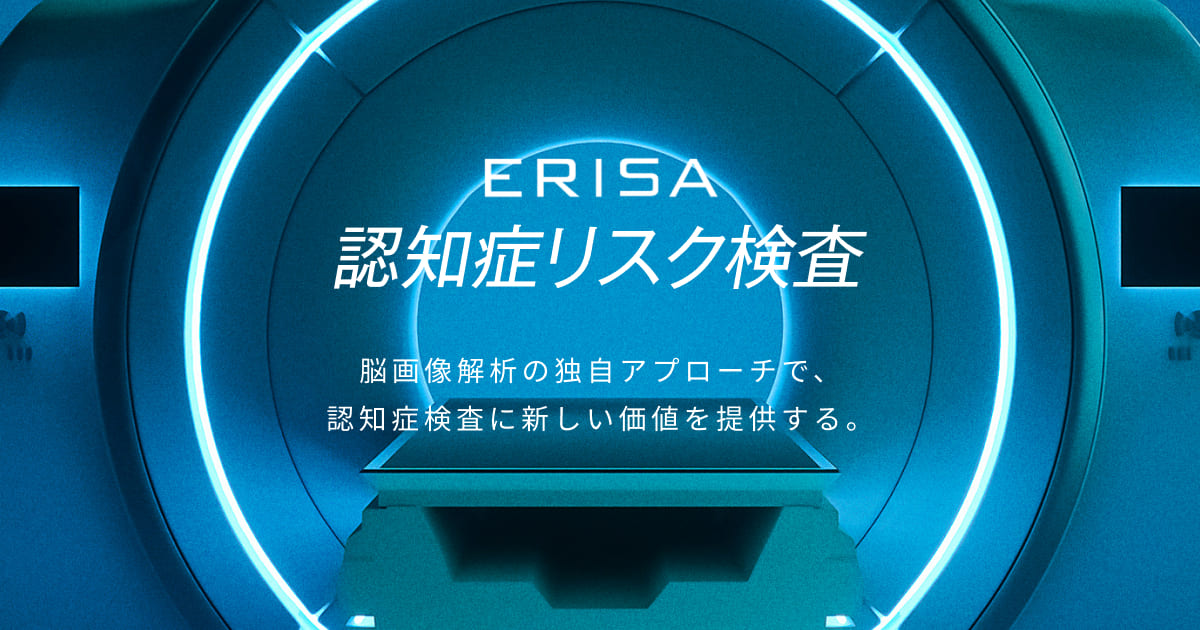
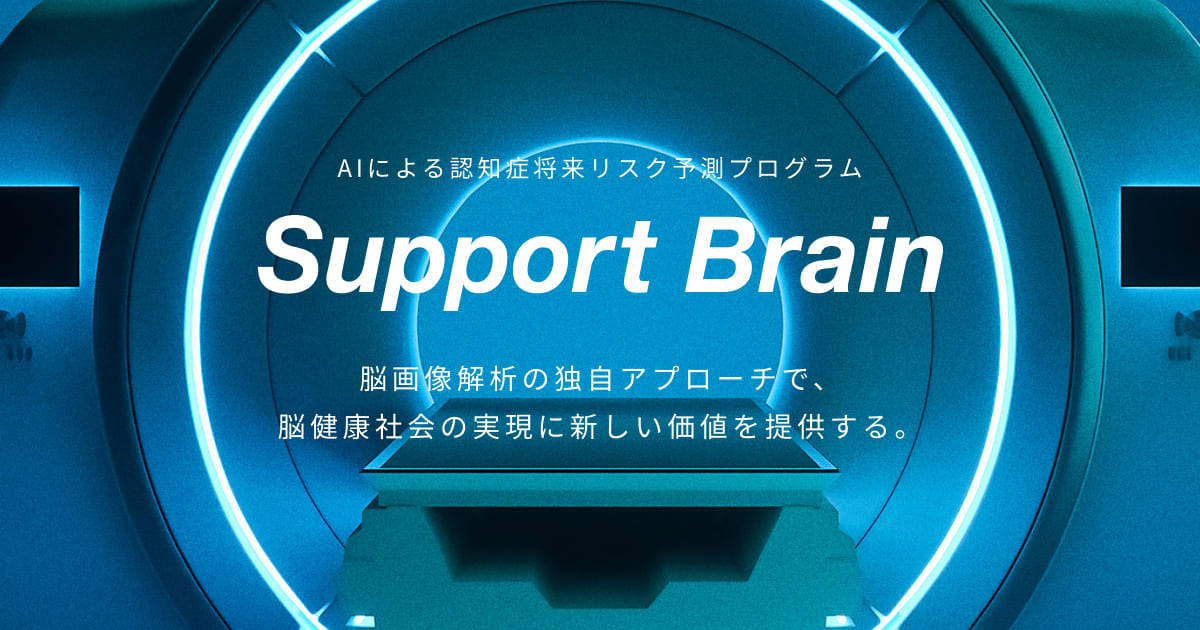
test

Changed region(s): [[0.2158, 0.2413, 0.8017, 0.5127], [0.2158, 0.573, 0.74, 0.6937]]

diff --git a/src/styles/healthcare.module.scss b/src/styles/healthcare.module.scss
@@ -533,9 +533,13 @@ body {
             display: inline-block;
         }
         .KvText {
-            width: 533px;
+            width: 684px;
             opacity: 0;
             will-change: transform, opacity;
+        }
+
+        .KvTextSP {
+            display: none;
         }
 
         .KvTextSp0 {
@@ -558,7 +562,7 @@ body {
         h3 {
             font-size: 28px;
             font-weight: 300;
-            text-align: left;
+            text-align: center;
             line-height: 170%;
             letter-spacing: 0.16em;
             opacity: 0;
@@ -1710,13 +1714,28 @@ body {
 
     .textContainer {
         .KvText {
-            width: 296px;
+            display: none;
+        }
+
+        .KvTextSP {
+            display: block;
+            width: 330px;
+        }
+
+        .lineVertical {
+            width: 1px;
+            height: 30px;
+            margin-top: 20px;
+            margin-bottom: 10px;
+            opacity: 0;
         }
 
         h3 {
             font-size: 16px;
             width: 320px;
             text-align: center;
+            display: block;
+            margin: auto;
         }
     }
 
@@ -1729,40 +1748,39 @@ body {
     }
 
     a {
-
-    .document {
-        height: 70px;
-        width: 130px;
-        position: fixed;
-        right: 0;
-        bottom: 10%;
-        background-color: #fff;
-        text-align: left;
-        border-top-left-radius: 45px;
-        border-bottom-left-radius: 45px;
-        z-index: 1;
-
-        .documentLine {
-            display: block;
-            height: 57px;
-            width: 127px;
-            border-style: solid;
-            border-width: 1px;
+        .document {
+            height: 70px;
+            width: 130px;
+            position: fixed;
+            right: 0;
+            bottom: 10%;
+            background-color: #fff;
+            text-align: left;
             border-top-left-radius: 45px;
             border-bottom-left-radius: 45px;
-            border-color: #74B6F2;
-            margin: 2px 2px;
-            padding-top: 7px;
+            z-index: 1;
 
-            p {
-                font-size: 16px;
-                color: #74B6F2;
+            .documentLine {
                 display: block;
-                margin: 0 0 auto 25px;
-                font-weight: 500;
+                height: 57px;
+                width: 127px;
+                border-style: solid;
+                border-width: 1px;
+                border-top-left-radius: 45px;
+                border-bottom-left-radius: 45px;
+                border-color: #74B6F2;
+                margin: 2px 2px;
+                padding-top: 7px;
+
+                p {
+                    font-size: 16px;
+                    color: #74B6F2;
+                    display: block;
+                    margin: 0 0 auto 25px;
+                    font-weight: 500;
+                }
             }
         }
-    }
     }
 
 

diff --git a/src/styles/index.module.scss b/src/styles/index.module.scss
@@ -496,7 +496,7 @@
     -webkit-user-drag: none;
     background-image: url("../images/KV.jpg");
     background-size: cover;
-    background-position: center center;
+    background-position: 0% center;
 
     .uneune {
         position: absolute;
@@ -522,7 +522,7 @@
         position: absolute;
         top: 50%;
         left: 50%;
-        transform: translate(10%, -50%);
+        transform: translate(3%, -50%);
         color: white;
         padding: 0rem 2rem 1rem;
         border-radius: 5px;
@@ -545,7 +545,7 @@
 
         .lineVertical {
             width: 1px;
-            margin-left: -350px;
+            margin-left: -200px;
             margin-top: 20px;
             margin-bottom: 20px;
             opacity: 0;
@@ -2064,22 +2064,19 @@
 
         .KvTextSp0 {
             display: block;
-            width: 250px;
+            width: 280px;
             opacity: 0;
         }
 
         .KvTextSp1 {
             display: block;
-            width: 180px;
+            width: 280px;
             opacity: 0;
+            margin-bottom: 15px;
         }
 
         .lineVertical {
-            height: 25px;
-            margin: 0;
-            margin-left: 80px;
-            width: 2px;
-            opacity: 0;
+            display: none;
         }
 
         .mask {

diff --git a/src/pages/healthcare.js b/src/pages/healthcare.js
@@ -12,6 +12,7 @@ import * as style from "../styles/healthcare.module.scss"
 import logoWhite from '../images/logoWhite.svg'
 import logoColor from '../images/logoColor.svg'
 import KvText from '../healthcareImages/KvText.svg'
+import KvTextSP from '../healthcareImages/KvTextSP.svg'
 import lineVertical from '../images/line-vertical.png'
 import logoFooter from '../images/logoFooter.svg'
 import ogpTob from '../healthcareImages/ogpTob.jpg'
@@ -764,6 +765,7 @@ const setAnimation = () => {
           <div className={style.textContainer}>
             <div className={style.mask}>
               <img id="KvText" src={KvText} className={style.KvText} loading="lazy" alt="text" />
+              <img id="KvText" src={KvTextSP} className={style.KvTextSP} loading="lazy" alt="text" />
             </div>
             <div className={style.mask}>
               <img src={lineVertical} id="KvText" className={style.lineVertical} loading="lazy" alt="text" />

diff --git a/src/pages/contact.js b/src/pages/contact.js
@@ -104,10 +104,10 @@ export const Index = () => {
     const Name = watch('name')
     const Email = watch('email')
     const Contact = watch('contact')
-    //watchに各フォーム部品のnameの値を引数で渡すとでタイムリーで入力状態を監視してる
+    //watchに各フォーム部品のnameの値を引数で渡すとこでタイムリーで入力状態を監視してる
 
     useEffect(() => {
-        if (isConfirmationVisible == true){
+        if (isConfirmationVisible === true){
             scroller.scrollTo('scrollTarget', {
                 duration: 0,
             })

diff --git a/src/pages/healthcare/contact.js b/src/pages/healthcare/contact.js
@@ -105,7 +105,7 @@ export const Index = () => {
     //watchに各フォーム部品のnameの値を引数で渡すとでタイムリーで入力状態を監視してる
 
     useEffect(() => {
-        if (isConfirmationVisible == true) {
+        if (isConfirmationVisible === true) {
             scroller.scrollTo('scrollTarget', {
                 duration: 0,
             })
